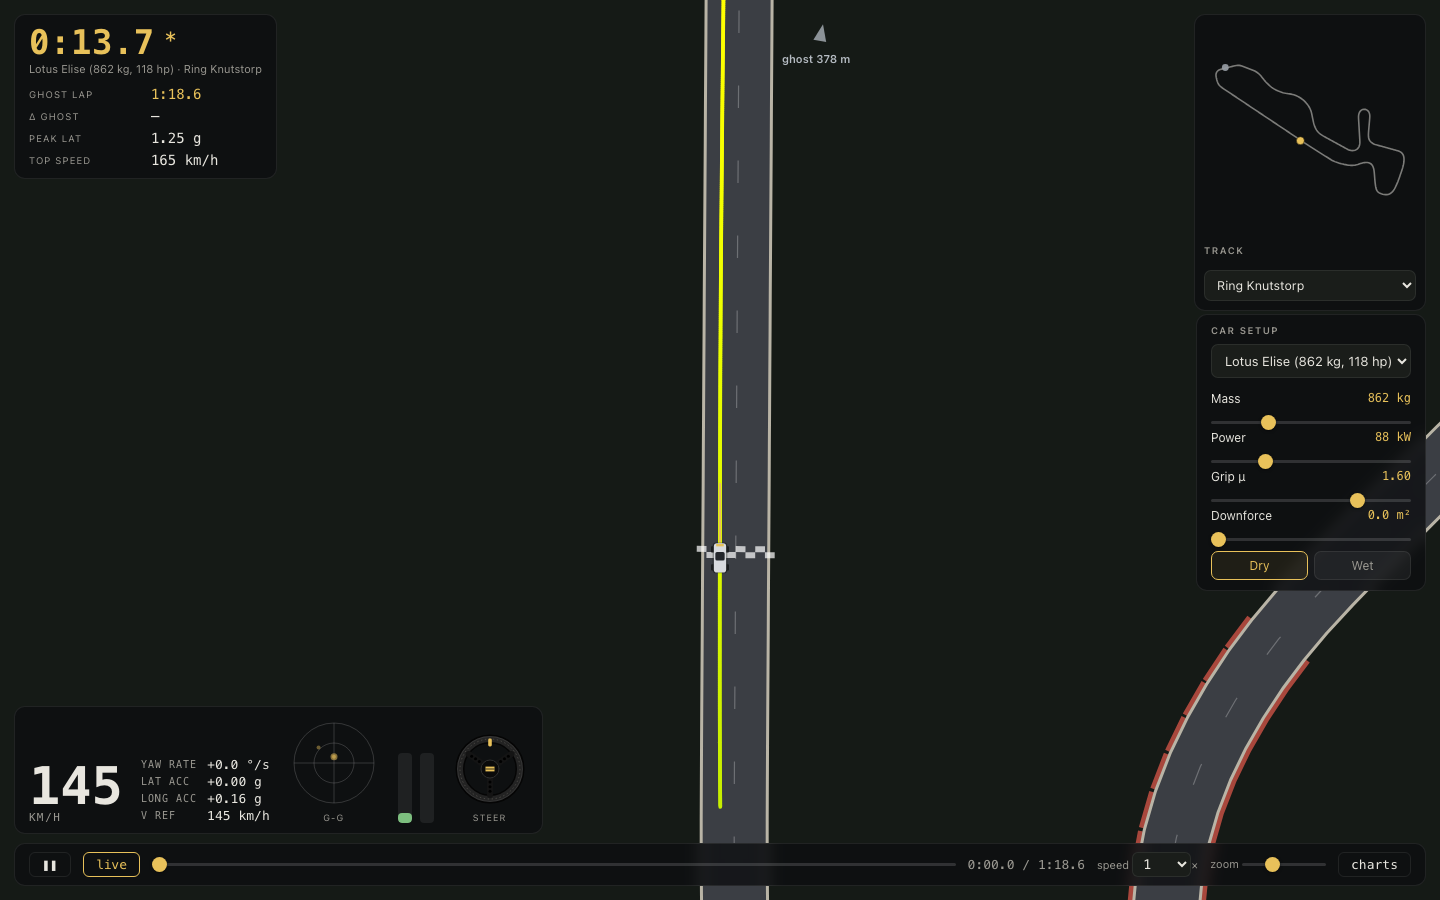
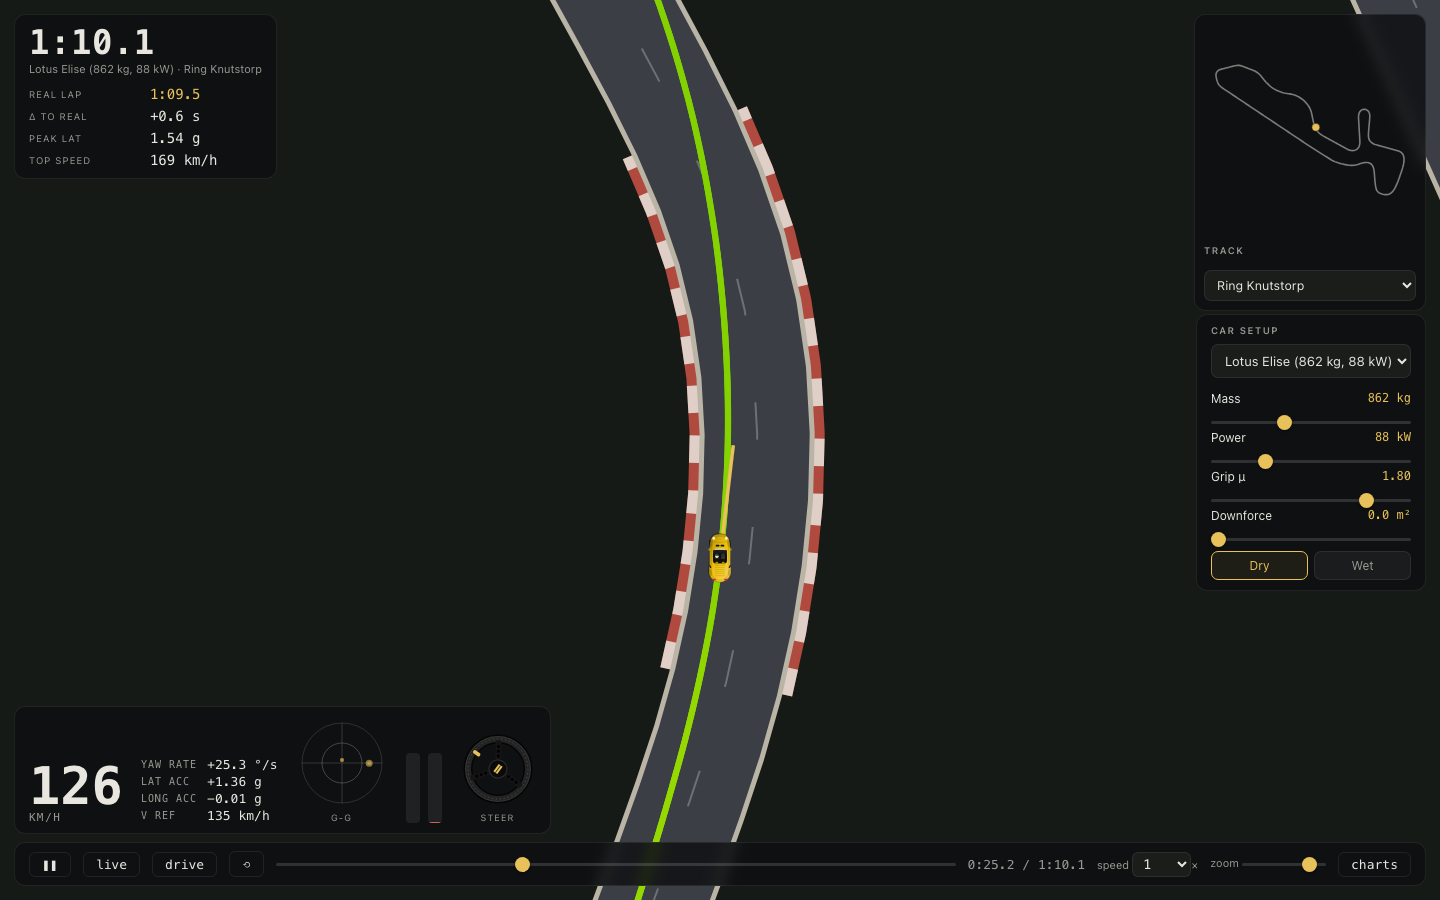
Fix CI: restore the legacy smoothing default; refresh README screenshot
The 'nordschleife stays inside the track' test broke when the track-width
work parameterized apply_driver_margin's post-clip smoothing: the new
default (smooth=4.0) leaked into the LEGACY path used by track_lap.py and
the test suite, which had always hardcoded sigma 8.0 - sharper lines made
the Modelica-pipeline Tourer overshoot (|n|max 4.55 vs 4.25+0.5 limit).
Default restored to 8.0; the webgui passes smooth explicitly on every
call, so the live sim is untouched. Full suite passes locally.

outputs/live_sim.png retaken on the current build: calibrated Elise at
1.36 g mid-corner between the striped kerbs at Knutstorp, HUD showing
the real-lap overlay (1:10.1 vs 1:09.5), kW car panel.

Claude-Session: https://claude.ai/code/session_018ywGSqJy5Tarxi5swFKvgh

diff --git a/tracks/racing_line.py b/tracks/racing_line.py
@@ -78,7 +78,7 @@ def min_curvature_line(x, y, psi, kappa_c, ds, w_max, alpha=5e-6, smooth=3.0):
 
 
 def apply_driver_margin(x, y, psi, ds, w, w_max, vRef, margin=0.4, k=1.4,
-                        ay_budget=None, smooth=4.0, asym=True, bite=0.0, kHi=0.0):
+                        ay_budget=None, smooth=8.0, asym=True, bite=0.0, kHi=0.0):
     """Pull a racing line in from the corridor edge where the driver needs slack.
 
     The preview driver overshoots the line under LATERAL LOAD - through corners,